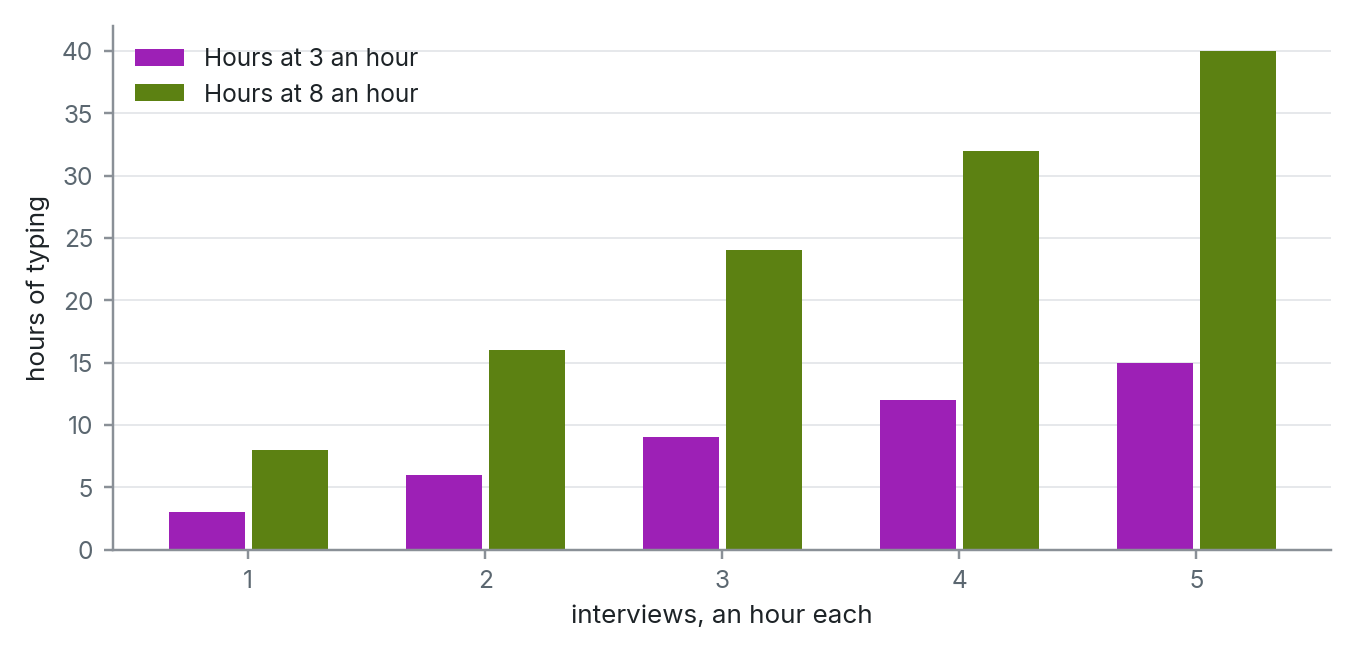
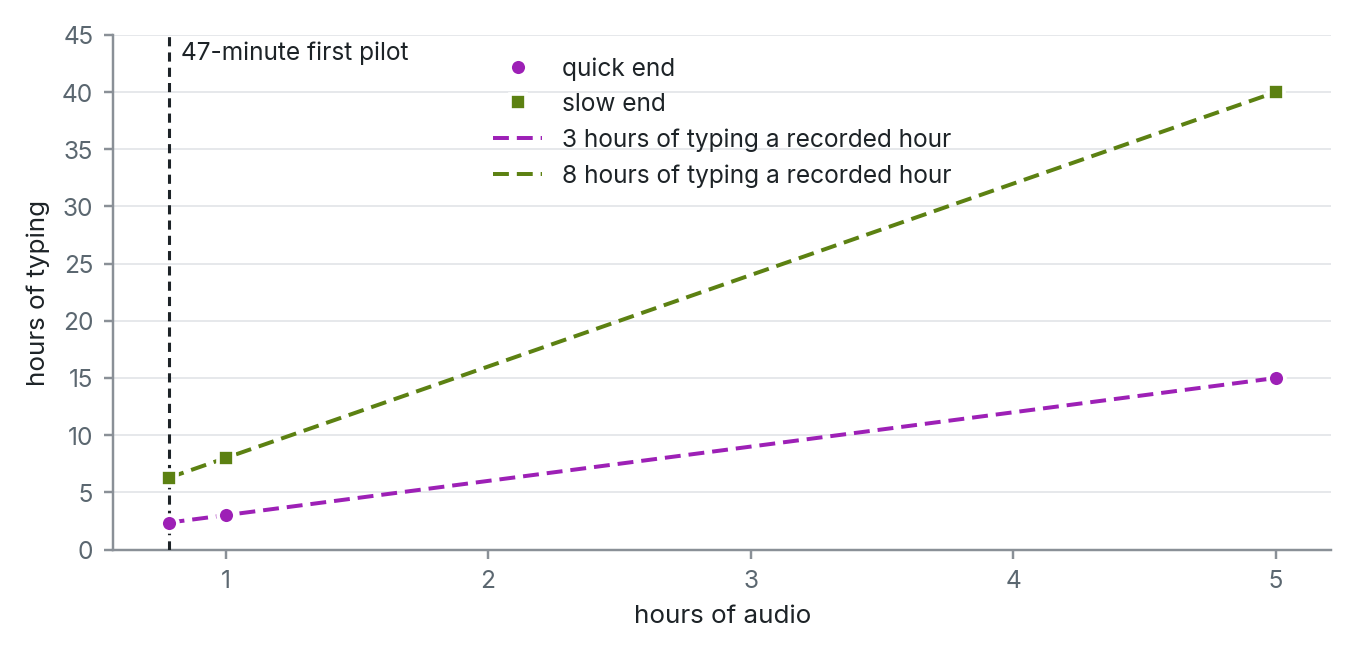
S36-R1 figure plan: 10 figures (7 sections), 7 figure_notes; all looked at
Claude-Session: https://claude.ai/code/session_017MfrSG2pRPoFB1oEe6f15Q

diff --git a/books/S36-R1/FIGURE-BRIEF.md b/books/S36-R1/FIGURE-BRIEF.md
@@ -1,0 +1,33 @@
+# Figure planner brief · S36-R1 (PIPELINE.md "Figure plan")
+
+Repository `/home/claude/obesity-course`, branch `book/S36-R1`. Do not commit. Edit only the records
+in your range, and only their `figures:`, `figure_note` and `derived` entries — never their prose
+(the compression pass has fixed it; a compression that removed a number a spec used is a spec to
+fix, never a sentence to restore). Write figure files only under `check/figures/` with names
+`s36-r1-cNN-<what>.png`.
+
+Read `claude.md` §4 "Figures" (it now documents `curves`, `areas`, `refs`, negative bars and
+per-series colours) and `check/schema/example.concept.yml` (its `figures:` block). Then, for each
+record in your range, which now carries its compressed text:
+
+- **At least one figure a section; more is welcome** (Harsh's standing instruction: more figures
+  than Book 0, each mathematically correct and matching its text). Where a figure would teach
+  nothing the prose does not, write one line in `figure_note` instead. A quantitative section
+  always gets a figure of its worked relationship: the curve its formula draws, the area its
+  integral is, the point where a rate is zero, the weighted sum's parts.
+- Start from the drafter's specs. Each figure is a `figures:` entry with a `spec`: data from the
+  record's own ```table block where there is one (`from_table`), otherwise listed in the spec; every
+  number it plots or prints (data, labels, caption, alt text, axis titles, constants, endpoints)
+  stated in the record's prose or worked out under `derived`; every relationship drawn a `fit`,
+  `curve`, `area` or `check`. The caption says what the reader should see, in the section's terms.
+- Run `python check/figures/draw.py --book S36-R1` (it redraws every S36-R1 figure; another planner
+  runs it at the same time on other records, which is harmless) and `python check/build.py --check`
+  until no record in your range blocks. Then open each of your PNGs with the Read tool and look:
+  overlapping labels, a legend over the data, an unreadable axis, a line that says something the
+  section does not. Fix the spec and redraw; never edit a PNG.
+
+**This book is qualitative.** Most sections teach a practice, not a quantity. The drawing tool plots only data (bars, lines, points, curves, areas) and **must not be edited** (`check/**` is frozen mid-flight under `PARALLEL.md`). So a figure is right where the section has real numbers or counts in its own text (a talk share, hours of transcription, a time plan, counts of question types in a made-up guide, word counts before and after cleaning a transcript) and teaches something; never invent numbers to make a chart, and never draw a chart of a qualitative idea dressed up as data. Where no honest figure exists, the `figure_note` names the diagram a reader would want (a flow of steps, a spectrum) in one line. The C10 spec broke in the compression (its `from_table` block index); fix it.
+
+Scratch in `/home/claude/scratch-fig-<batch>/`. Write `books/S36-R1/FIGURES-<batch>.md`: per
+section, the figures (file, what it shows, the check that holds it) or the figure_note. Return at
+most 150 words: figures per section, figure_notes, anything you could not make correct.

diff --git a/books/S36-R1/FIGURES-f2.md b/books/S36-R1/FIGURES-f2.md
@@ -1,0 +1,18 @@
+# S36-R1 figure plan, batch f2 (C08 to C14)
+
+`python check/figures/draw.py --book S36-R1`: 0 problems. `python check/build.py --check`: 0 blocking in C08 to C14. I looked at every PNG as an image.
+
+| Section | Figures or figure_note | What the figure shows | Check that holds it |
+| --- | --- | --- | --- |
+| C08 | figure_note | No chart. The diagram a reader would want is a flow of the interview's parts. | n/a |
+| C09 | figure_note | No chart, because the effect is unmeasured. The diagram a reader would want shows direction: interviews that all lean one way beside ones that scatter. | n/a |
+| C10 | `s36-r1-c10-transcribing-hours.png` (rebuilt) | Hours of typing against hours of audio at 3 and 8 hours per recorded hour. It marks the 47-minute pilot (2.35 and 6.27 hours) and five one-hour pilots (15 and 40 hours). | `fit y = 3*x` and `y = 8*x` through every point; a ref at x = 0.7833; every number is in the prose |
+| C11 | `s36-r1-c11-five-shares.png` (drafter's) | The five pilot shares, with the gate at 50 and the mean at 27.2. Interview 3 is over the gate. | `from_table` block 3; `check` that the mean is 27.2 |
+| C11 | `s36-r1-c11-turns-and-words.png` (drafter's) | The same three turns each, but 15 against 108 words and 104 against 8. | `from_table` block 2 |
+| C11 | `s36-r1-c11-share-and-ratio.png` (new) | Share = 100/(1 + ratio), through the section's worked cases: 0.0769→92.9, 1→50, 1.78→36, 3→25, 7.2→12.2. A ratio of 1 is the gate. | `fit` plus a `curves` entry tied to the series |
+| C12 | figure_note | A tally of codes is the counting the section warns against. The diagram a reader would want is the read, code, memo, next-interview loop. | n/a |
+| C13 | figure_note | The check reads words against words. The diagram a reader would want is the four acts as a checklist. | n/a |
+| C14 | `s36-r1-c14-talk-share.png` (drafter's) | The section's pilots: 46, 38, 26, 20, 43 under the 50 line. | `from_table` block 0 |
+| C14 | `s36-r1-c14-moving-and-flat.png` (new) | The section's pilots beside the trainee's flat 45, 44, 47, 46, 45. Both meet the gate, and only the first moves. | Literal data; every value is stated in the critique exercise |
+
+C10 fix: the compression removed the hours table, so `from_table` block 3 no longer existed. The spec now lists its data and uses the 47-minute worked exercise together with the illustration's five-pilot sum.

diff --git a/books/S36-R1/FIGURES-f1.md b/books/S36-R1/FIGURES-f1.md
@@ -1,0 +1,15 @@
+# Figure plan · S36-R1 · batch f1 (C01–C07)
+
+Drawn with `python check/figures/draw.py --book S36-R1`; `python check/build.py --check` shows no block in C01–C07. Every PNG below was opened and looked at.
+
+| Section | Figure or note | What it shows | The check that holds it |
+| --- | --- | --- | --- |
+| C01 | figure_note | Names the diagram a reader would want: a loop (asking finds what to count, counting says how common, a trial tests the fix). No quantity in the section. | — |
+| C02 | `s36-r1-c02-share-follows-choice.png` (new) | Two bars: 7 of 12 chosen = 58.33333333 %, 7 of 14 chosen = 50 %. The same seven respondents give a different share when the choice changes, so the share describes the choice, not the clinic. | `y[0] = 7/12*100`, `y[1] = 7/14*100`; 50 derived from the prose's `7 divided by 14 = 0.5`. Replaces the old note. |
+| C03 | figure_note | Names a spectrum: structured, semi-structured and in-depth as points on one line of how much is fixed in advance. | — |
+| C04 | `s36-r1-c04-who-answers-whom.png` (kept) | Respondent turns answering the moderator or another participant: first group 6 and 0, second group 2 and 6. | Recounted by hand from both exchanges; all numbers stated in the prose's own counts table. |
+| C05 | `s36-r1-c05-draft-labels.png` (kept) | The eight questions by label, first draft against rewrite: open 3→7, closed 5→1, leading 5→0, double 2→0. | `y1[0] + y1[1] = 8`, `y2[0] + y2[1] = 8`; labels recounted from both question tables. |
+| C06 | `s36-r1-c06-time-plan.png` (kept) | Planned minutes for the seven parts of the guide, 50 in all, most on main 2 to 4. | `sum(y) = 50`. |
+| C07 | figure_note | Names a flow of the consent steps in order, ending with a spoken label, not a name. No quantity in the section. | — |
+
+Not drawn, on purpose: word counts of R1's turns in C03's two exchanges. They are not stated in the text and cannot be derived by arithmetic, and a chart of them would decorate a point the prose already makes.
